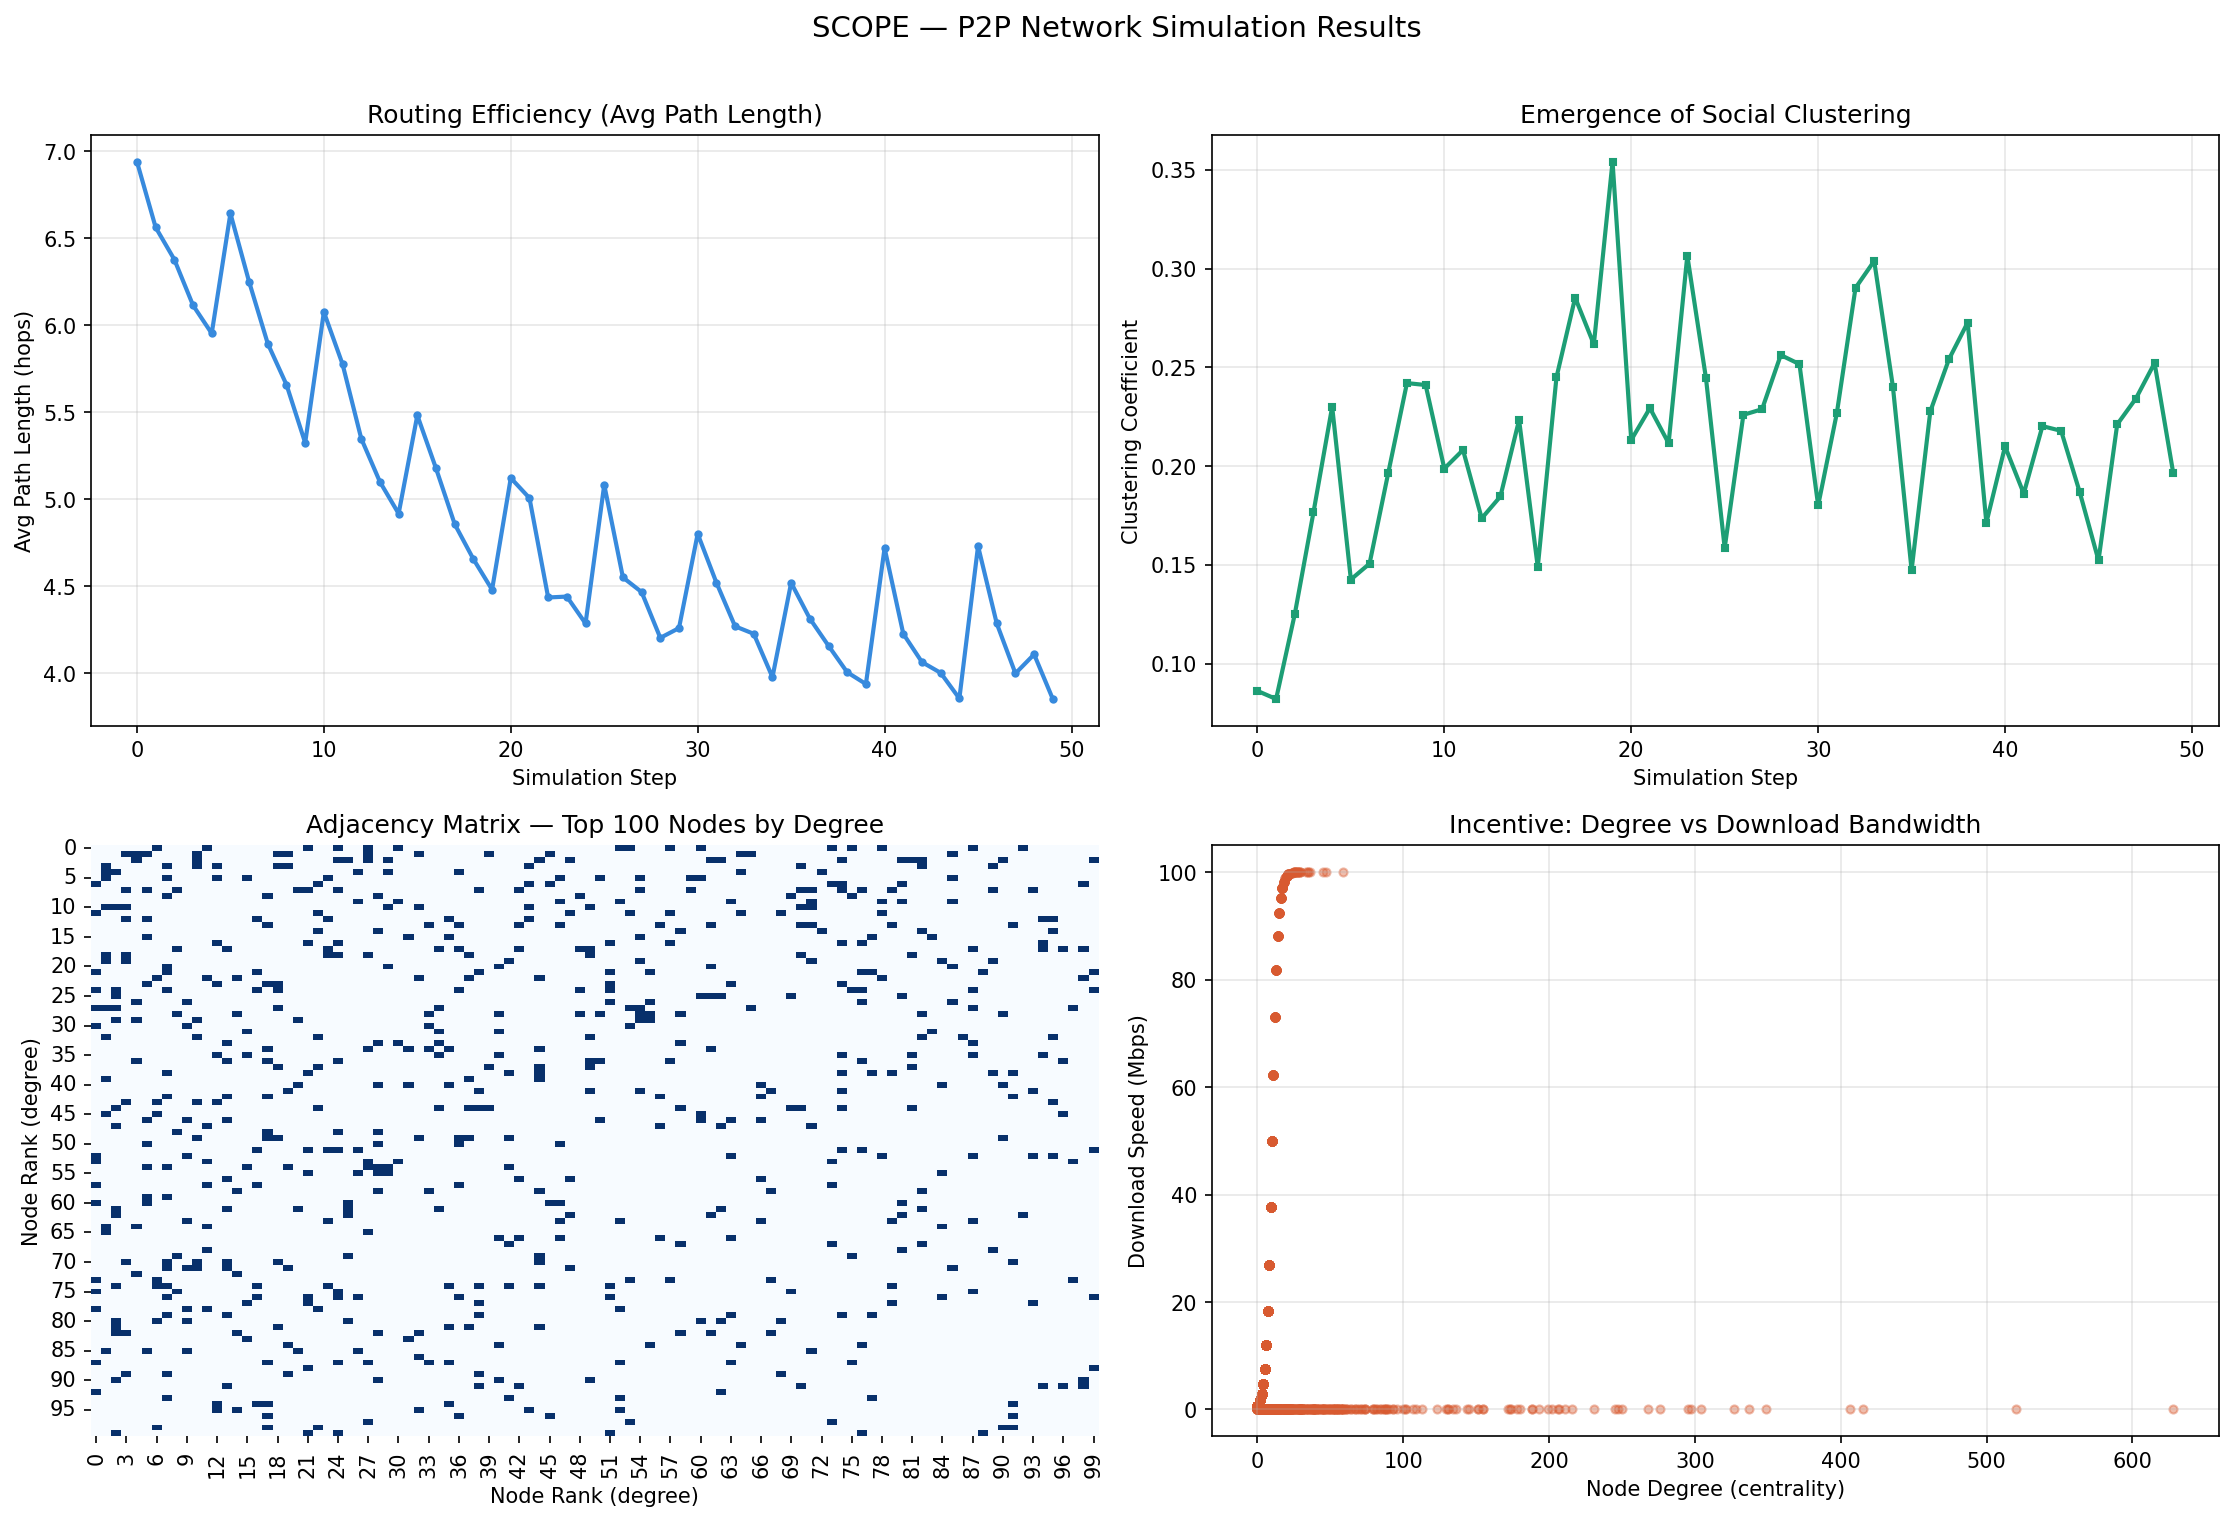
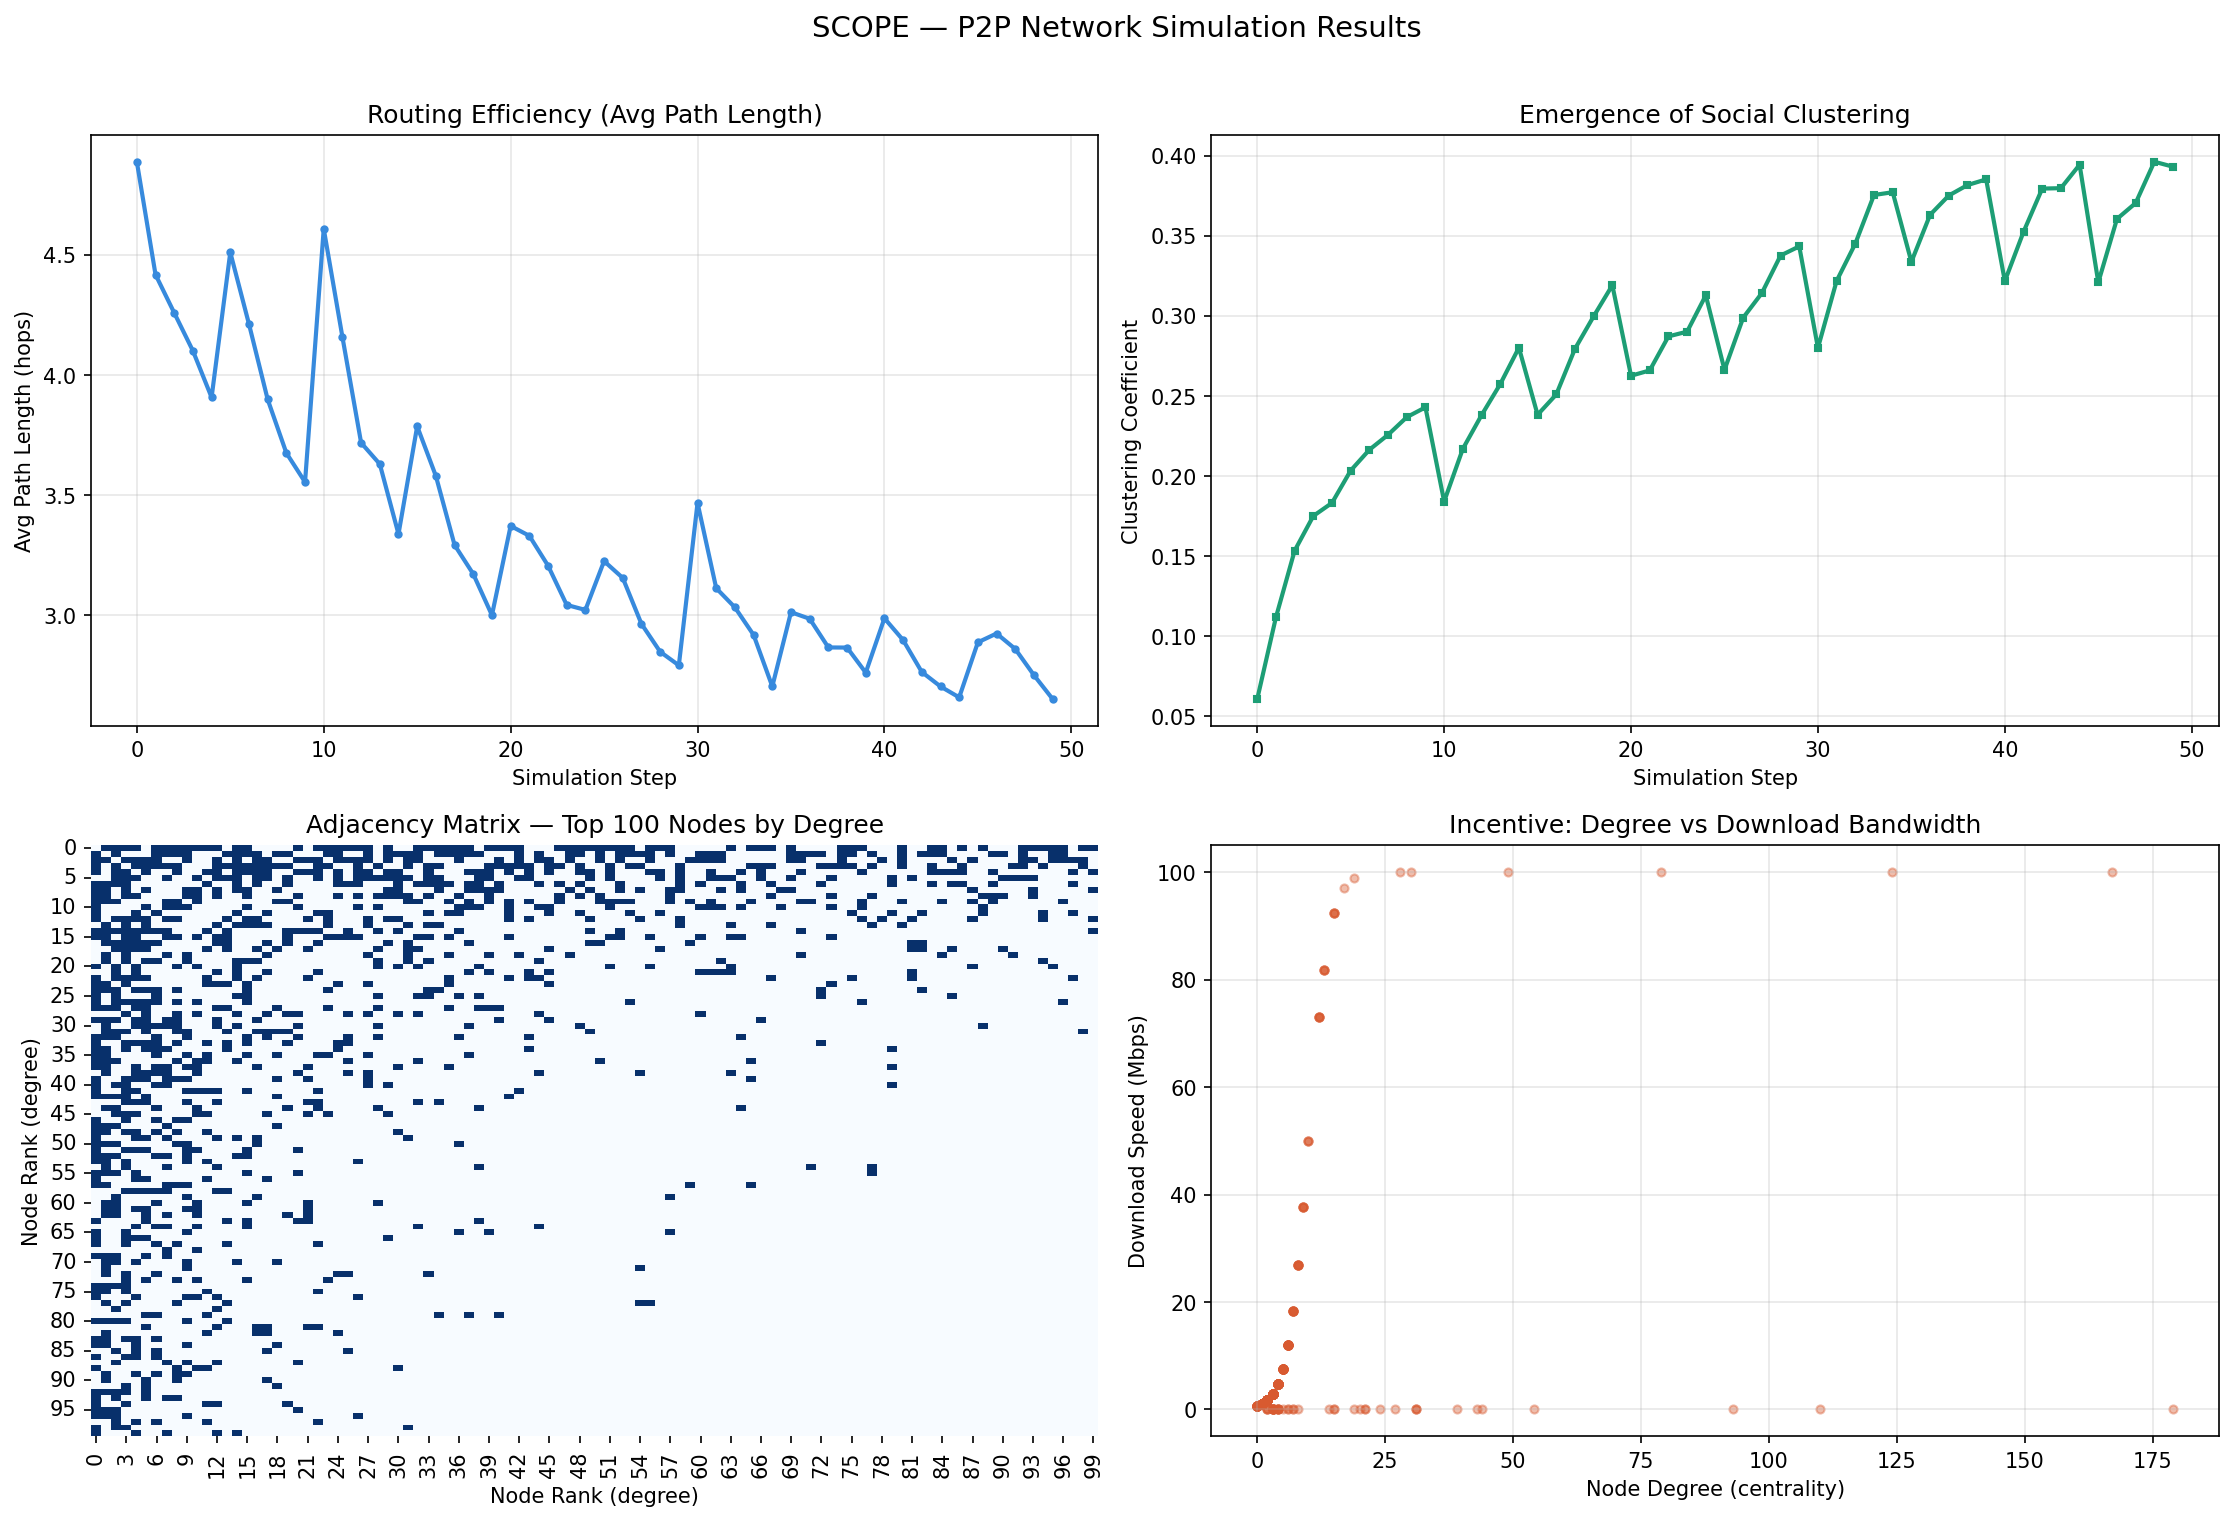
chore: disable plot display and reduce NUM_NODES for faster simulation runs

diff --git a/src/config.py b/src/config.py
@@ -3,7 +3,7 @@
 # ==========================================
 
 # Simulation Settings
-NUM_NODES      = 10000    # Number of agents
+NUM_NODES      = 500    # Number of agents
 INITIAL_DEGREE = 4      # Average neighbors per node (Gnutella baseline)
 ITERATIONS     = 50     # How many "OODA Loops" to run
 REWIRING_PROB  = 0.2    # Fraction of agents that wake up per step

diff --git a/main.py b/main.py
@@ -52,7 +52,7 @@ def plot_results(final_graph, history):
     plt.tight_layout()
     plt.savefig("scope_results.png", dpi=150, bbox_inches='tight')
     print("\n>>> Plot saved to scope_results.png")
-    plt.show()
+    # plt.show()
 
 
 # ---------------------------------------------------------------------------
